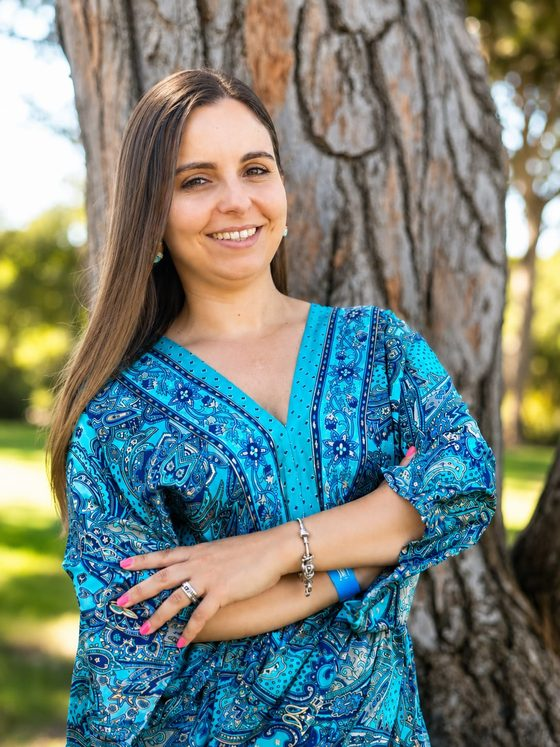
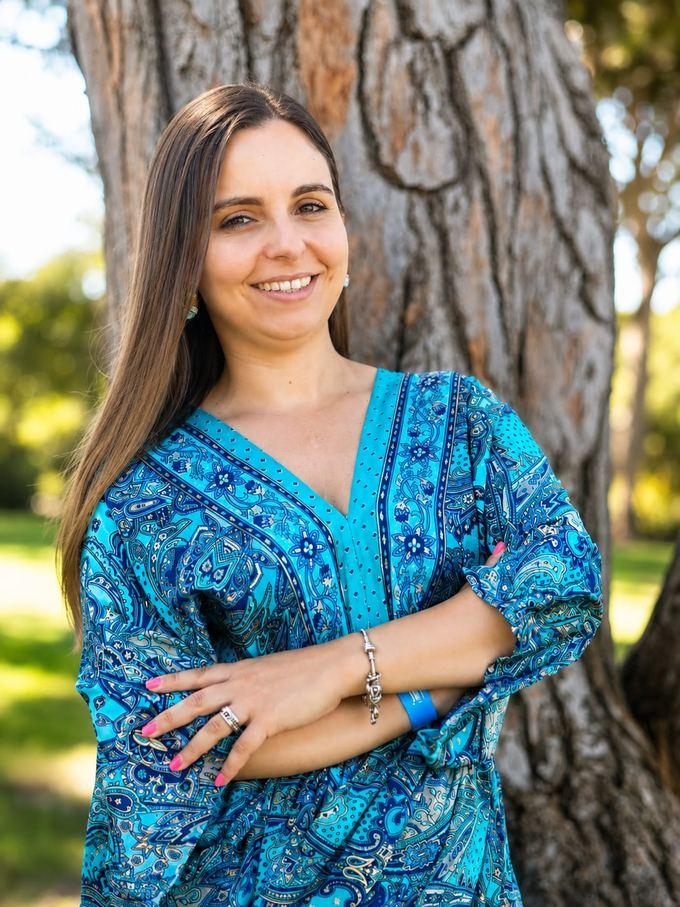
Seccao Sobre: foto maior com passe-partout, coluna de texto centrada
Foto mantida sem recorte, por escolha da Flavia. Em vez de fechar o
enquadramento, a secçao resolve os dois problemas de outra forma:

- Foto de 260px para clamp(215px, 38vw, 320px): a cara cresce por escala
  (110px -> 140px) sem tocar no enquadramento
- Passe-partout claro a volta: separa o turquesa saturado do creme da pagina,
  que era o que fazia a foto ler-se como colada
- Coluna de texto centrada contra a foto: elimina o vazio a direita
- Asset reencodado a 680x907 (q78, 133 KB) para acompanhar a nova largura

diff --git a/styles/main.css b/styles/main.css
@@ -373,15 +373,26 @@ h3 {
   margin-bottom: 1.3rem;
 }
 
+/* Passe-partout: a moldura clara separa o azul saturado da foto do creme da
+   pagina, e o raio de topo generoso resolve-se sozinho em semicirculo a
+   qualquer largura porque o browser reduz raios que excedem o lado. */
+.foto-mat {
+  width: max-content;
+  padding: 0.85rem;
+  background: var(--surface);
+  border: 1px solid var(--line);
+  border-radius: 999px 999px var(--radius) var(--radius);
+  box-shadow: var(--shadow);
+}
+
 .sobre-foto {
-  width: clamp(200px, 34vw, 260px);
+  display: block;
+  width: clamp(215px, 38vw, 320px);
   height: auto;
   aspect-ratio: 4 / 5;
   object-fit: cover;
   object-position: 50% 12%;
-  border-radius: 125px 125px var(--radius-sm) var(--radius-sm);
-  border: 1px solid var(--line);
-  box-shadow: var(--shadow);
+  border-radius: 999px 999px var(--radius-sm) var(--radius-sm);
 }
 
 .contact-link {
@@ -688,6 +699,7 @@ h3 {
 @media (min-width: 700px) {
   .section-grid {
     grid-template-columns: auto minmax(0, 1fr);
+    align-items: center;
   }
 
   .areas-grid {

diff --git a/index.html b/index.html
@@ -109,15 +109,17 @@
       <div class="container">
         <p class="eyebrow reveal">Sobre</p>
         <div class="section-grid">
-          <img
-            class="sobre-foto reveal"
-            src="assets/flavia-gomes.jpg"
-            alt="Flávia Gomes, psicóloga"
-            width="560"
-            height="747"
-            loading="lazy"
-            decoding="async"
-          >
+          <div class="foto-mat reveal">
+            <img
+              class="sobre-foto"
+              src="assets/flavia-gomes.jpg"
+              alt="Flávia Gomes, psicóloga"
+              width="680"
+              height="907"
+              loading="lazy"
+              decoding="async"
+            >
+          </div>
           <div class="formacoes reveal">
             <h2>Formações e especializações</h2>
             <ul class="chip-list">
